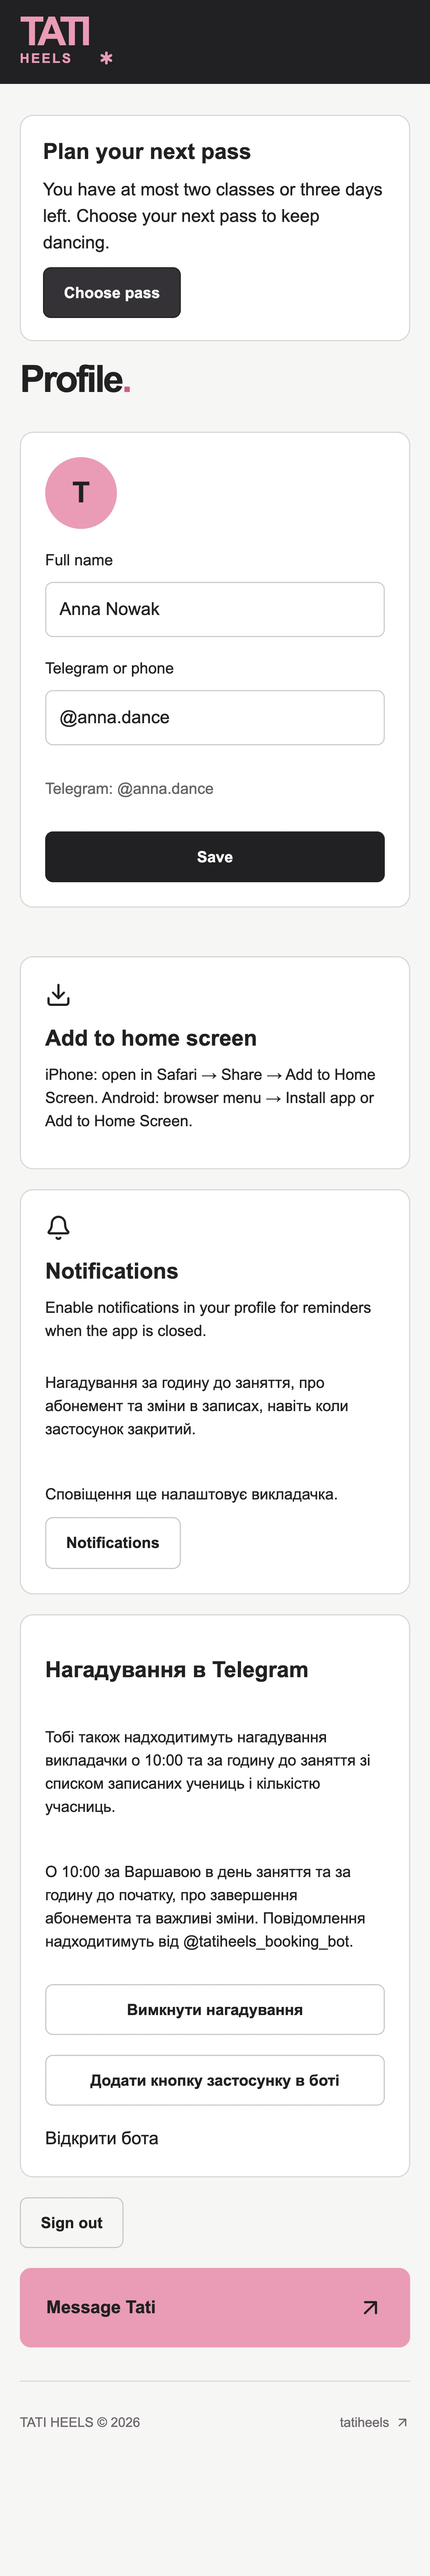
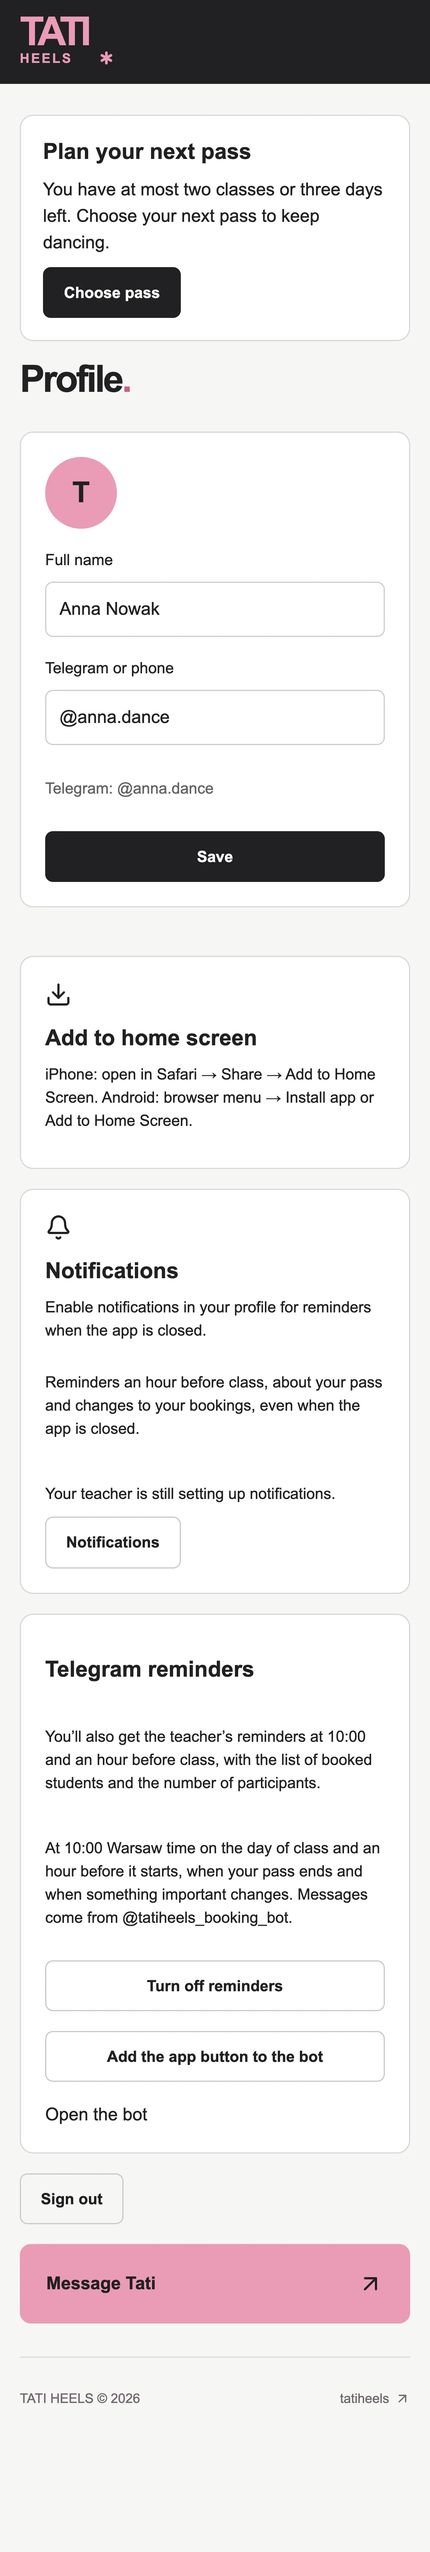
Tati Heels prototype: Profile in English, no seam under the status bar

diff --git a/index.html b/index.html
@@ -605,15 +605,15 @@ html[data-theme="dark"] .trash .bin{background:linear-gradient(#5a525d,#3b353e)}
 .proto-phone{position:relative;height:min(84vh,860px);aspect-ratio:414/939;border-radius:58px;background:#0c0a0d;box-shadow:0 0 0 1.5px #3a333c,inset 0 0 0 1px #000,0 40px 80px -30px rgba(0,0,0,.8)}
 .proto-scr{position:absolute;inset:12px;border-radius:47px;overflow:hidden;background:#212022;isolation:isolate}
 .pdev{position:absolute;left:0;top:0;width:390px;height:915px;transform-origin:0 0}
-.psb{position:absolute;left:0;top:0;width:390px;height:47px;background:var(--pbar);color:#fff;display:flex;align-items:center;justify-content:space-between;padding:4px 30px 0 44px;font:600 16px/1 -apple-system,BlinkMacSystemFont,"SF Pro Text",var(--f-display);letter-spacing:-.01em}
+.psb{position:absolute;left:0;top:0;z-index:2;width:390px;height:48px;background:var(--pbar);color:#fff;display:flex;align-items:center;justify-content:space-between;padding:4px 30px 0 44px;font:600 16px/1 -apple-system,BlinkMacSystemFont,"SF Pro Text",var(--f-display);letter-spacing:-.01em}
 .psb::after{content:"";position:absolute;left:50%;top:11px;width:122px;height:35px;margin-left:-61px;border-radius:20px;background:#000}
 .psb svg{display:block}.psb .ic{display:flex;gap:6px;align-items:center}
-.pvp{position:absolute;left:0;top:47px;width:390px;height:844px;overflow:hidden;background:#F6F5F3}
+.pvp{position:absolute;left:0;top:47px;width:390px;height:844px;overflow:hidden;background:linear-gradient(var(--pbar) 0 60px,#F6F5F3 60px calc(100% - 60px),var(--ptab) calc(100% - 60px))}
 .psc{position:absolute;inset:0;overflow-y:auto;overflow-x:hidden;overscroll-behavior:contain;scrollbar-width:none;-webkit-overflow-scrolling:touch}
 .psc::-webkit-scrollbar{display:none}
 .pct{position:relative;width:390px}
 .pct > img,.pov > img{display:block;width:390px;height:auto;user-select:none;-webkit-user-drag:none}
-.pfx{position:absolute;left:0;width:390px;pointer-events:none}
+.pfx{position:absolute;left:0;width:390px;pointer-events:none;z-index:1}
 .pfx img{display:block;width:390px;height:100%}
 .pfx .hs{pointer-events:auto}
 .pov{position:absolute;inset:0;z-index:5}
@@ -621,7 +621,7 @@ html[data-theme="dark"] .trash .bin{background:linear-gradient(#5a525d,#3b353e)}
 @keyframes pOv{from{opacity:0}}
 .pct.fade{animation:pFade .22s ease}
 @keyframes pFade{from{opacity:.35}}
-.phm{position:absolute;left:0;top:891px;width:390px;height:24px;background:var(--ptab)}
+.phm{position:absolute;left:0;top:890px;z-index:2;width:390px;height:25px;background:var(--ptab)}
 .phm::after{content:"";position:absolute;left:50%;bottom:8px;width:134px;height:5px;margin-left:-67px;border-radius:3px;background:#fff}
 .pdim{position:absolute;left:0;width:390px;background:#000;opacity:0;pointer-events:none;transition:opacity .26s;z-index:6}
 .pdev.ov .pdim{opacity:var(--pdim)}
